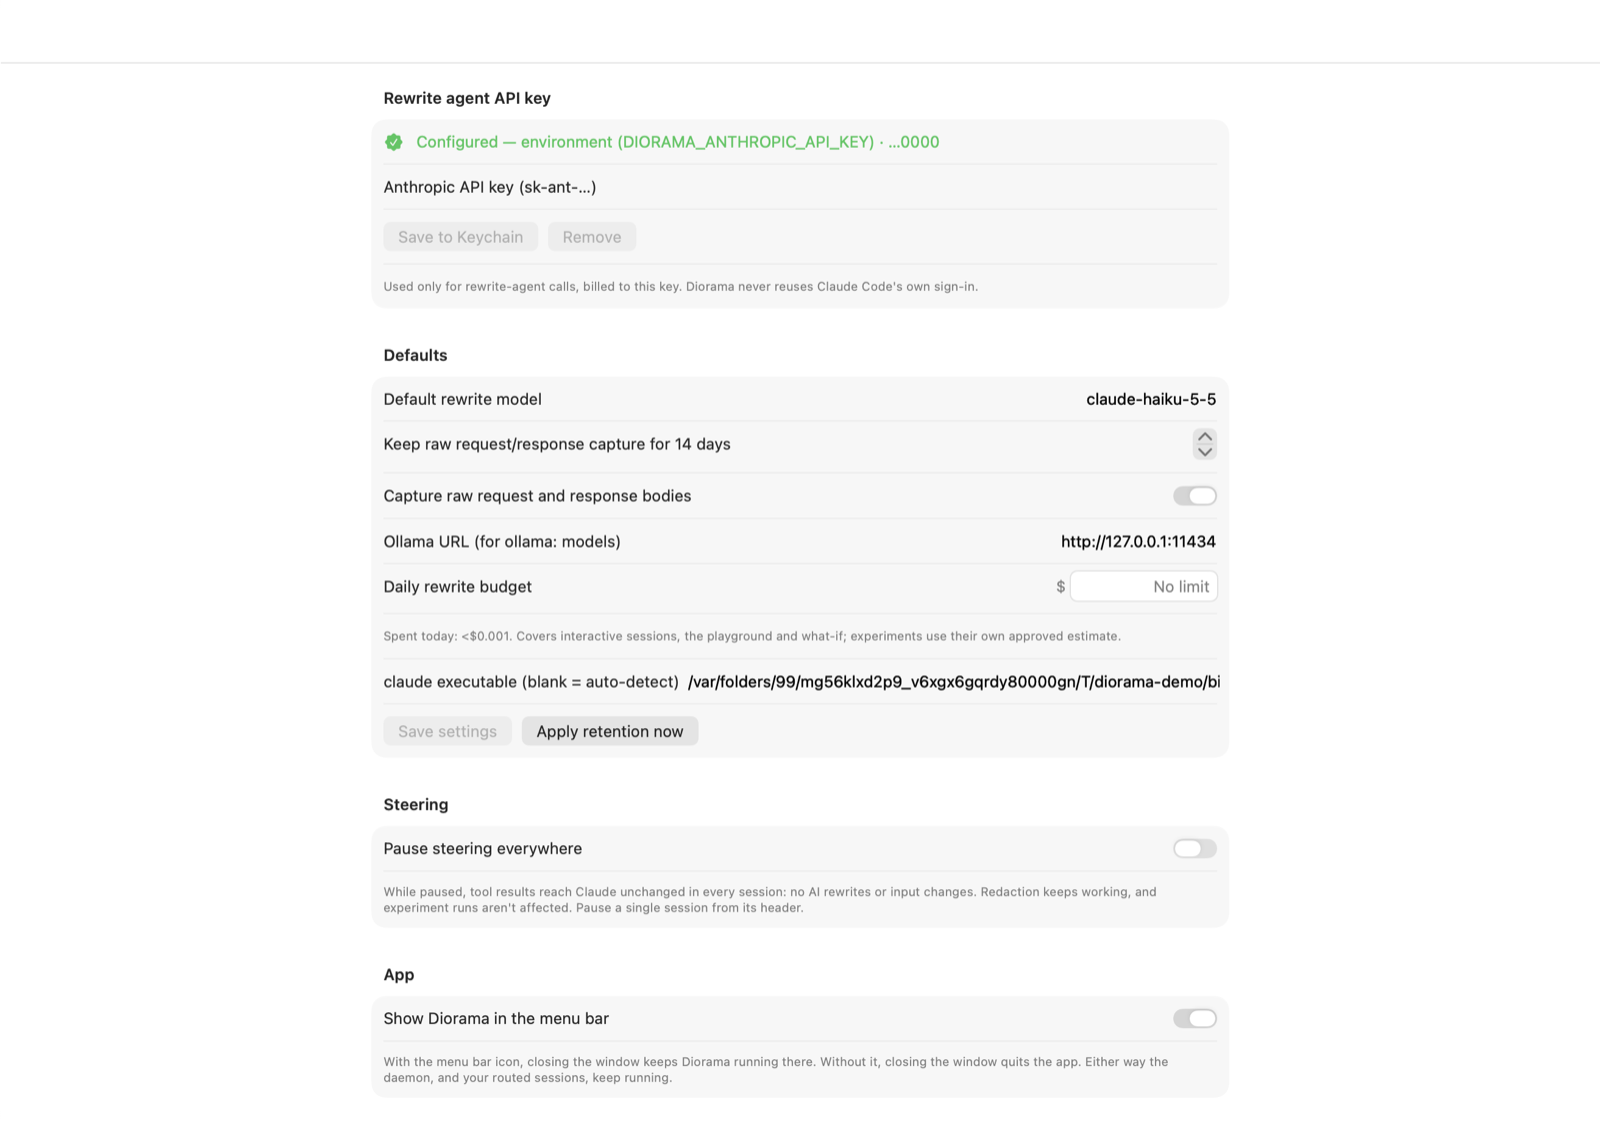
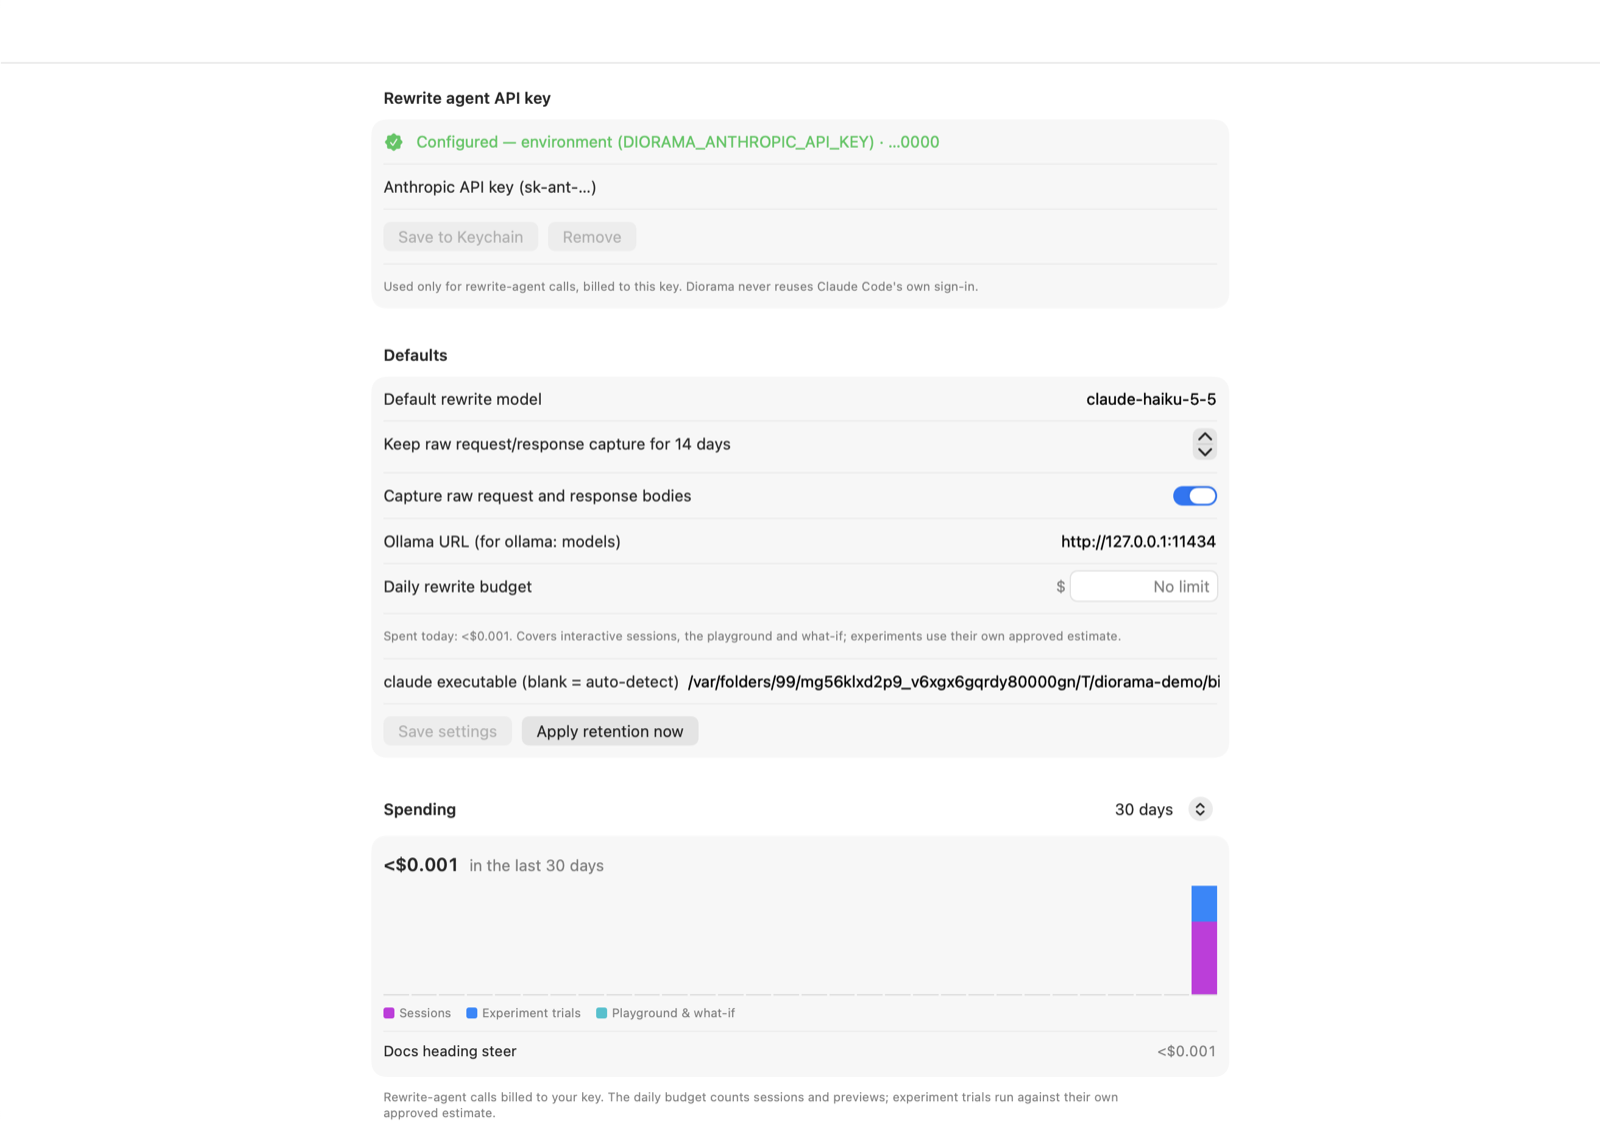
Spending history: per-day rewrite-agent spending
Settings chart (sessions, trials, previews; per profile), diorama spend
--days, MCP get_spend_history. Regenerated demo screenshots.

Changed region(s): [[0.2188, 0.7181, 0.7812, 0.9991], [0.6875, 0.7181, 0.75, 0.7493], [0.7188, 0.4371, 0.75, 0.4683]]

diff --git a/Sources/DioramaApp/SpendHistoryView.swift b/Sources/DioramaApp/SpendHistoryView.swift
@@ -1,0 +1,113 @@
+import DioramaCore
+import SwiftUI
+
+/// Settings: rewrite-agent spending per day, stacked by where it went.
+struct SpendHistorySection: View {
+    @Environment(AppModel.self) private var model
+    @AppStorage("spendHistoryDays") private var days = 30
+    @State private var history: SpendHistory?
+    @State private var hovered: SpendHistory.Day?
+
+    var body: some View {
+        Section {
+            if let h = history {
+                VStack(alignment: .leading, spacing: 8) {
+                    HStack(alignment: .firstTextBaseline) {
+                        Text(Fmt.money(h.totalUSD)).font(.title3.bold()).monospacedDigit()
+                        Text("in the last \(Fmt.plural(days, "day"))").foregroundStyle(.secondary)
+                        Spacer()
+                        if let d = hovered {
+                            Text("\(d.day.formatted(.dateTime.weekday(.abbreviated).month().day())): \(Fmt.money(d.totalUSD)) · \(Fmt.plural(d.calls, "call"))")
+                                .font(.caption).monospacedDigit().foregroundStyle(.secondary)
+                        }
+                    }
+                    SpendBars(days: h.days, hovered: $hovered)
+                        .frame(height: 90)
+                    HStack(spacing: 12) {
+                        legend("Sessions", .purple)
+                        legend("Experiment trials", .blue)
+                        legend("Playground & what-if", .teal)
+                    }
+                    .font(.caption)
+                    let byProfile = Self.byProfile(h)
+                    if !byProfile.isEmpty {
+                        Divider()
+                        ForEach(byProfile.prefix(5), id: \.0) { name, usd in
+                            HStack {
+                                Text(name)
+                                Spacer()
+                                Text(Fmt.money(usd)).monospacedDigit().foregroundStyle(.secondary)
+                            }
+                            .font(.callout)
+                        }
+                    }
+                }
+                .padding(.vertical, 4)
+            } else {
+                ProgressView().frame(maxWidth: .infinity)
+            }
+        } header: {
+            HStack {
+                Text("Spending")
+                Spacer()
+                Picker("Window", selection: $days) {
+                    Text("30 days").tag(30)
+                    Text("90 days").tag(90)
+                }
+                .labelsHidden().fixedSize()
+            }
+        } footer: {
+            Text("Rewrite-agent calls billed to your key. The daily budget counts sessions and previews; experiment trials run against their own approved estimate.")
+                .font(.caption).foregroundStyle(.secondary)
+        }
+        .task(id: "\(days)/\(model.eventTick / 20)") { history = await model.perform { try await $0.spendHistory(days: days) } }
+    }
+
+    func legend(_ text: String, _ color: Color) -> some View {
+        HStack(spacing: 4) {
+            RoundedRectangle(cornerRadius: 2).fill(color).frame(width: 9, height: 9)
+            Text(text).foregroundStyle(.secondary)
+        }
+    }
+
+    static func byProfile(_ h: SpendHistory) -> [(String, Double)] {
+        var out: [String: Double] = [:]
+        for d in h.days { for (k, v) in d.byProfile { out[k, default: 0] += v } }
+        return out.sorted { $0.value > $1.value }
+    }
+}
+
+/// Stacked daily bars, scaled to the busiest day. Hover a bar for its numbers.
+private struct SpendBars: View {
+    let days: [SpendHistory.Day]
+    @Binding var hovered: SpendHistory.Day?
+
+    var body: some View {
+        GeometryReader { g in
+            let peak = max(days.map(\.totalUSD).max() ?? 0, 0.000_001)
+            let gap: CGFloat = days.count > 60 ? 1 : 2
+            let w = max(1, (g.size.width - gap * CGFloat(days.count - 1)) / CGFloat(max(days.count, 1)))
+            HStack(alignment: .bottom, spacing: gap) {
+                ForEach(days) { d in
+                    VStack(spacing: 0) {
+                        Spacer(minLength: 0)
+                        segment(d.previewsUSD, .teal, peak, g.size.height)
+                        segment(d.trialsUSD, .blue, peak, g.size.height)
+                        segment(d.sessionsUSD, .purple, peak, g.size.height)
+                        Rectangle().fill(Color.secondary.opacity(0.25)).frame(height: 1)
+                    }
+                    .frame(width: w)
+                    .background(hovered?.day == d.day ? Color.primary.opacity(0.06) : .clear)
+                    .contentShape(Rectangle())
+                    .onHover { inside in
+                        if inside { hovered = d } else if hovered?.day == d.day { hovered = nil }
+                    }
+                }
+            }
+        }
+    }
+
+    @ViewBuilder func segment(_ v: Double, _ color: Color, _ peak: Double, _ height: CGFloat) -> some View {
+        if v > 0 { color.frame(height: max(2, (height - 1) * v / peak)) }
+    }
+}

diff --git a/Tests/DioramaEngineTests/SpendHistoryTests.swift b/Tests/DioramaEngineTests/SpendHistoryTests.swift
@@ -1,0 +1,40 @@
+import DioramaClient
+import DioramaCore
+import DioramaStore
+import Foundation
+import Testing
+
+@Suite struct SpendHistoryTests {
+    func attempt(_ store: Store, session: String, cost: Double, at: Date) throws {
+        let info = RewriteAttemptInfo(id: Hashing.newId(prefix: "att"), provider: "scripted", modelRequested: "m", modelServed: "m", promptVersion: "v",
+                                      status: .succeeded, error: nil, usage: nil, costUSD: cost, latencyMs: 1, explanation: nil, mode: nil, edits: [], createdAt: at)
+        try store.insertAttempt(AttemptRecord(info: info, toolUseId: "toolu_\(UUID().uuidString)", sessionId: session, requestBlob: nil, responseBlob: nil))
+    }
+
+    @Test func bucketsByLocalDayAndSource() throws {
+        let store = try tempStore()
+        let profile = try store.createProfile(Profile(name: "web", rules: [Rule(name: "r", match: RuleMatch(tools: ["*"]), instructions: "x")]))
+        let s = try store.createSession(SessionSpec(name: "s", cwd: "/tmp", profile: "web"), tokenHash: "h1")
+        let t = try store.createSession(SessionSpec(name: "t", cwd: "/tmp", profile: "web", kind: .trial, trialId: "tri_1"), tokenHash: "h2")
+        let cal = Calendar.current
+        let now = Date()
+        let yesterday = cal.date(byAdding: .day, value: -1, to: now)!
+        try attempt(store, session: s.id, cost: 0.10, at: now)
+        try attempt(store, session: t.id, cost: 0.05, at: now)
+        try attempt(store, session: s.id, cost: 0.20, at: yesterday)
+        try attempt(store, session: s.id, cost: 9, at: cal.date(byAdding: .day, value: -40, to: now)!)
+        store.recordSpend(kind: "playground", profileId: profile.profileId, costUSD: 0.01)
+
+        let h = try store.spendHistory(days: 7, now: now)
+        #expect(h.days.count == 7 && h.days.last?.day == cal.startOfDay(for: now))
+        let today = try #require(h.days.last)
+        #expect(abs(today.sessionsUSD - 0.10) < 1e-9 && abs(today.trialsUSD - 0.05) < 1e-9 && abs(today.previewsUSD - 0.01) < 1e-9)
+        #expect(today.calls == 2 && abs((today.byProfile["web"] ?? 0) - 0.16) < 1e-9)
+        #expect(abs(h.days[5].sessionsUSD - 0.20) < 1e-9)
+        #expect(abs(h.totalUSD - 0.36) < 1e-9, "the 40-day-old attempt is outside the window")
+
+        let text = SpendHistoryText.render(h)
+        #expect(text.contains("$0.36 in total") && text.contains("web: $0.36"))
+        #expect(SpendHistoryText.render(try tempStore().spendHistory(days: 3)).hasSuffix("(nothing spent)"))
+    }
+}

diff --git a/Sources/DioramaStore/Store+Spend.swift b/Sources/DioramaStore/Store+Spend.swift
@@ -44,4 +44,37 @@ extension Store {
         }
         return out
     }
+
+    /// Spending per local day for the last `days` days (today included).
+    public func spendHistory(days: Int, calendar: Calendar = .current, now: Date = Date()) throws -> SpendHistory {
+        let today = calendar.startOfDay(for: now)
+        guard let start = calendar.date(byAdding: .day, value: -(max(days, 1) - 1), to: today) else { return SpendHistory(days: []) }
+        var byDay: [Date: SpendHistory.Day] = [:]
+        var d = start
+        while d <= today {
+            byDay[d] = SpendHistory.Day(day: d)
+            d = calendar.date(byAdding: .day, value: 1, to: d) ?? today.addingTimeInterval(86_400)
+        }
+        let names = Dictionary(try profiles(includeArchived: true).map { ($0.id, $0.name) }, uniquingKeysWith: { x, _ in x })
+        let attempts = try db.query("""
+            SELECT a.created_at AS t, COALESCE(a.cost_usd, 0) AS c, s.trial_id AS trial, s.profile_id AS p
+            FROM rewrite_attempts a JOIN sessions s ON s.id = a.session_id WHERE a.created_at >= ?
+            """, [.date(start)])
+        for r in attempts {
+            guard let t = r.date("t"), var day = byDay[calendar.startOfDay(for: t)] else { continue }
+            let c = r.double("c") ?? 0
+            if r.string("trial") != nil { day.trialsUSD += c } else { day.sessionsUSD += c }
+            day.calls += 1
+            if let p = r.string("p"), c > 0 { day.byProfile[names[p] ?? p, default: 0] += c }
+            byDay[day.day] = day
+        }
+        for r in try db.query("SELECT created_at AS t, cost_usd AS c, profile_id AS p FROM spend_ledger WHERE created_at >= ?", [.date(start)]) {
+            guard let t = r.date("t"), var day = byDay[calendar.startOfDay(for: t)] else { continue }
+            let c = r.double("c") ?? 0
+            day.previewsUSD += c
+            if let p = r.string("p"), c > 0 { day.byProfile[names[p] ?? p, default: 0] += c }
+            byDay[day.day] = day
+        }
+        return SpendHistory(days: byDay.values.sorted { $0.day < $1.day })
+    }
 }

diff --git a/Sources/DioramaClient/SpendHistoryText.swift b/Sources/DioramaClient/SpendHistoryText.swift
@@ -1,0 +1,27 @@
+import DioramaCore
+import Foundation
+
+public enum SpendHistoryText {
+    /// A per-day table for the CLI and the MCP server (days with no spending are skipped).
+    public static func render(_ h: SpendHistory) -> String {
+        let f = DateFormatter()
+        f.dateFormat = "EEE yyyy-MM-dd"
+        func money(_ v: Double) -> String { v == 0 ? "—" : v < 0.01 ? String(format: "$%.4f", v) : String(format: "$%.2f", v) }
+        let spent = h.days.filter { $0.totalUSD > 0 || $0.calls > 0 }
+        var out = ["Rewrite-agent spending, last \(h.days.count) day(s): \(money(h.totalUSD)) in total" + (spent.isEmpty ? " (nothing spent)" : "")]
+        guard !spent.isEmpty else { return out.joined(separator: "\n") }
+        out.append(String(format: "%-16@ %10@ %10@ %10@ %10@ %6@", "DAY" as NSString, "TOTAL" as NSString, "SESSIONS" as NSString, "TRIALS" as NSString, "PREVIEWS" as NSString, "CALLS" as NSString))
+        for d in spent {
+            out.append(String(format: "%-16@ %10@ %10@ %10@ %10@ %6d", f.string(from: d.day) as NSString, money(d.totalUSD) as NSString, money(d.sessionsUSD) as NSString,
+                              money(d.trialsUSD) as NSString, money(d.previewsUSD) as NSString, d.calls))
+        }
+        var byProfile: [String: Double] = [:]
+        for d in h.days { for (k, v) in d.byProfile { byProfile[k, default: 0] += v } }
+        if !byProfile.isEmpty {
+            out.append("")
+            out.append("By profile:")
+            for (k, v) in byProfile.sorted(by: { $0.value > $1.value }) { out.append("  \(k): \(money(v))") }
+        }
+        return out.joined(separator: "\n")
+    }
+}

diff --git a/Sources/DioramaCore/Models.swift b/Sources/DioramaCore/Models.swift
@@ -1371,3 +1371,30 @@ public struct SessionAnnotations: Codable, Sendable, Hashable {
             .prefix(maxTags).map { $0 }
     }
 }
+
+/// Rewrite-agent spending per local calendar day, by where it went. Unlike the budget, this
+/// includes experiment trials (as their own source), since they cost money too.
+public struct SpendHistory: Codable, Sendable, Hashable {
+    public struct Day: Codable, Sendable, Hashable, Identifiable {
+        /// Start of the local day.
+        public var day: Date
+        public var sessionsUSD: Double = 0
+        public var trialsUSD: Double = 0
+        /// Playground and what-if runs.
+        public var previewsUSD: Double = 0
+        /// Rewrite-agent calls (including classifier calls) in sessions and trials.
+        public var calls: Int = 0
+        /// Per profile name (sessions, trials and previews).
+        public var byProfile: [String: Double] = [:]
+        public var totalUSD: Double { sessionsUSD + trialsUSD + previewsUSD }
+        public var id: Date { day }
+
+        public init(day: Date) { self.day = day }
+    }
+
+    /// Oldest first, one entry per day in the window (zero days included).
+    public var days: [Day]
+    public var totalUSD: Double { days.reduce(0) { $0 + $1.totalUSD } }
+
+    public init(days: [Day]) { self.days = days }
+}

diff --git a/Sources/DioramaClient/MCPServer.swift b/Sources/DioramaClient/MCPServer.swift
@@ -273,6 +273,15 @@ enum MCPTools {
             return "Profile \(d.current.profileId), version \(d.current.number) (\(d.current.id)):\n" + (try json(d.current.profile))
         },
         .init(
+            name: "get_spend_history",
+            description: "Rewrite-agent spending per day (sessions, experiment trials, playground/what-if previews, calls) and per profile, for the last N days.",
+            schema: schema(["days": ["type": "integer", "minimum": 1, "maximum": 366, "description": "Days to cover, today included (default 30)."]]),
+            readOnly: true
+        ) { s, a in
+            let days = (a["days"] as? Int) ?? (a["days"] as? Double).map { Int($0) } ?? 30
+            return SpendHistoryText.render(try await s.daemon().spendHistory(days: days))
+        },
+        .init(
             name: "compare_profile_versions",
             description: "What changed between two versions of a profile: name, description, defaults, and per rule whether it was added, removed, changed (which fields, old → new) or moved.",
             schema: schema(["profile": string("Profile name or id."), "from": ["type": "integer", "description": "Older version number (default: the one before 'to')."],

diff --git a/Sources/diorama/CLI.swift b/Sources/diorama/CLI.swift
@@ -944,10 +944,18 @@ struct Spend: AsyncParsableCommand {
             and the session is flagged. Experiment runs don't count: they run against their own approved estimate.
             """)
     @OptionGroup var global: GlobalOptions
+    @Option(help: "Also show spending per day for the last N days (includes experiment trials).") var days: Int?
     @Flag var json = false
 
     func run() async throws {
-        let s = try await global.client().spend()
+        let client = try await global.client()
+        if let days {
+            let h = try await client.spendHistory(days: days)
+            if json { return try printJSON(h) }
+            print(SpendHistoryText.render(h))
+            return
+        }
+        let s = try await client.spend()
         if json { return try printJSON(s) }
         let cap = s.dailyBudgetUSD.map { " of \(money($0)) daily budget" + (s.isOverBudget ? " — used up, rewrites paused" : "") } ?? " (no daily cap)"
         print("Today: \(money(s.todayUSD))\(cap)")

diff --git a/Sources/DioramaClient/ControlClient.swift b/Sources/DioramaClient/ControlClient.swift
@@ -96,6 +96,8 @@ public struct ControlClient: Sendable {
     public func playground(_ r: PlaygroundRequest) async throws -> PlaygroundResult { try await request("POST", "playground", body: r) }
     public func whatIf(_ r: WhatIfRequest) async throws -> WhatIfResult { try await request("POST", "whatif", body: r) }
     public func spend() async throws -> SpendSummary { try await request("GET", "spend") }
+    /// Spending per day for the last `days` days (1–366).
+    public func spendHistory(days: Int = 30) async throws -> SpendHistory { try await request("GET", "spend/history", query: ["days": String(days)]) }
     public func search(_ query: String, rewrittenOnly: Bool = false, sessionId: String? = nil, limit: Int = 50) async throws -> [SearchHit] {
         var q = ["q": query, "limit": String(limit)]
         if rewrittenOnly { q["rewritten"] = "1" }

diff --git a/Sources/DioramaGateway/ControlAPI.swift b/Sources/DioramaGateway/ControlAPI.swift
@@ -167,6 +167,10 @@ struct ControlAPI: Sendable {
             let rows = try store.exportDecisions(filter)
             return try ok(DecisionExport(format: format, rows: rows.count, content: DataExport.render(rows, format: format, includeTexts: filter.includeTexts)))
         }
+        if Self.match(method, route, "GET", "spend/history") != nil {
+            let days = min(max(Int(req.query["days"] ?? "") ?? 30, 1), 366)
+            return try ok(try store.spendHistory(days: days))
+        }
         if Self.match(method, route, "GET", "reviews") != nil {
             return try ok(await daemon.engine.reviews.pending)
         }

diff --git a/Sources/DioramaApp/SettingsView.swift b/Sources/DioramaApp/SettingsView.swift
@@ -57,6 +57,7 @@ struct SettingsView: View {
                 }
                 if let m = maintenance { Text(m).font(.caption).foregroundStyle(.secondary) }
             }
+            SpendHistorySection()
             Section("Steering") {
                 Toggle("Pause steering everywhere", isOn: Binding(
                     get: { model.settings.steeringPaused },

diff --git a/docs/user-guide.md b/docs/user-guide.md
@@ -402,6 +402,10 @@ To see what Claude does with the real results, pause steering instead of ending 
 
 While paused, tool results reach Claude unchanged with the reason "not rewritten: steering is paused …", and input rules don't change tool calls. Redaction rules keep running, so secrets stay hidden. Results already decided keep their decision (D9), so pausing affects new tool results only. Experiment runs aren't affected. Paused sessions show a **paused** badge; the pause survives daemon restarts.
 
+### Spending history
+
+**Settings → Spending** shows rewrite-agent spending per day for the last 30 or 90 days, as bars split into sessions, experiment trials, and playground and what-if runs. Hover over a day to see its total and number of calls. Below the chart, the profiles that spent the most are listed. Unlike the budget, the history includes experiment trials, since they're billed too. `diorama spend --days 30` prints the same as a table, and the MCP tool `get_spend_history` returns it.
+
 ## Notifications
 
 While Diorama is in the background, it notifies you when:

diff --git a/CHANGELOG.md b/CHANGELOG.md
@@ -5,6 +5,9 @@ Release notes are generated from this file. Add changes under **Unreleased**;
 
 ## Unreleased
 
+### New
+- **Spending history.** Settings → Spending charts rewrite-agent spending per day over 30 or 90 days, split into sessions, experiment trials and playground/what-if, with a per-profile breakdown. Also `diorama spend --days N` and MCP `get_spend_history`.
+
 ## 1.4.0 — 2026-10-25
 
 ### New
